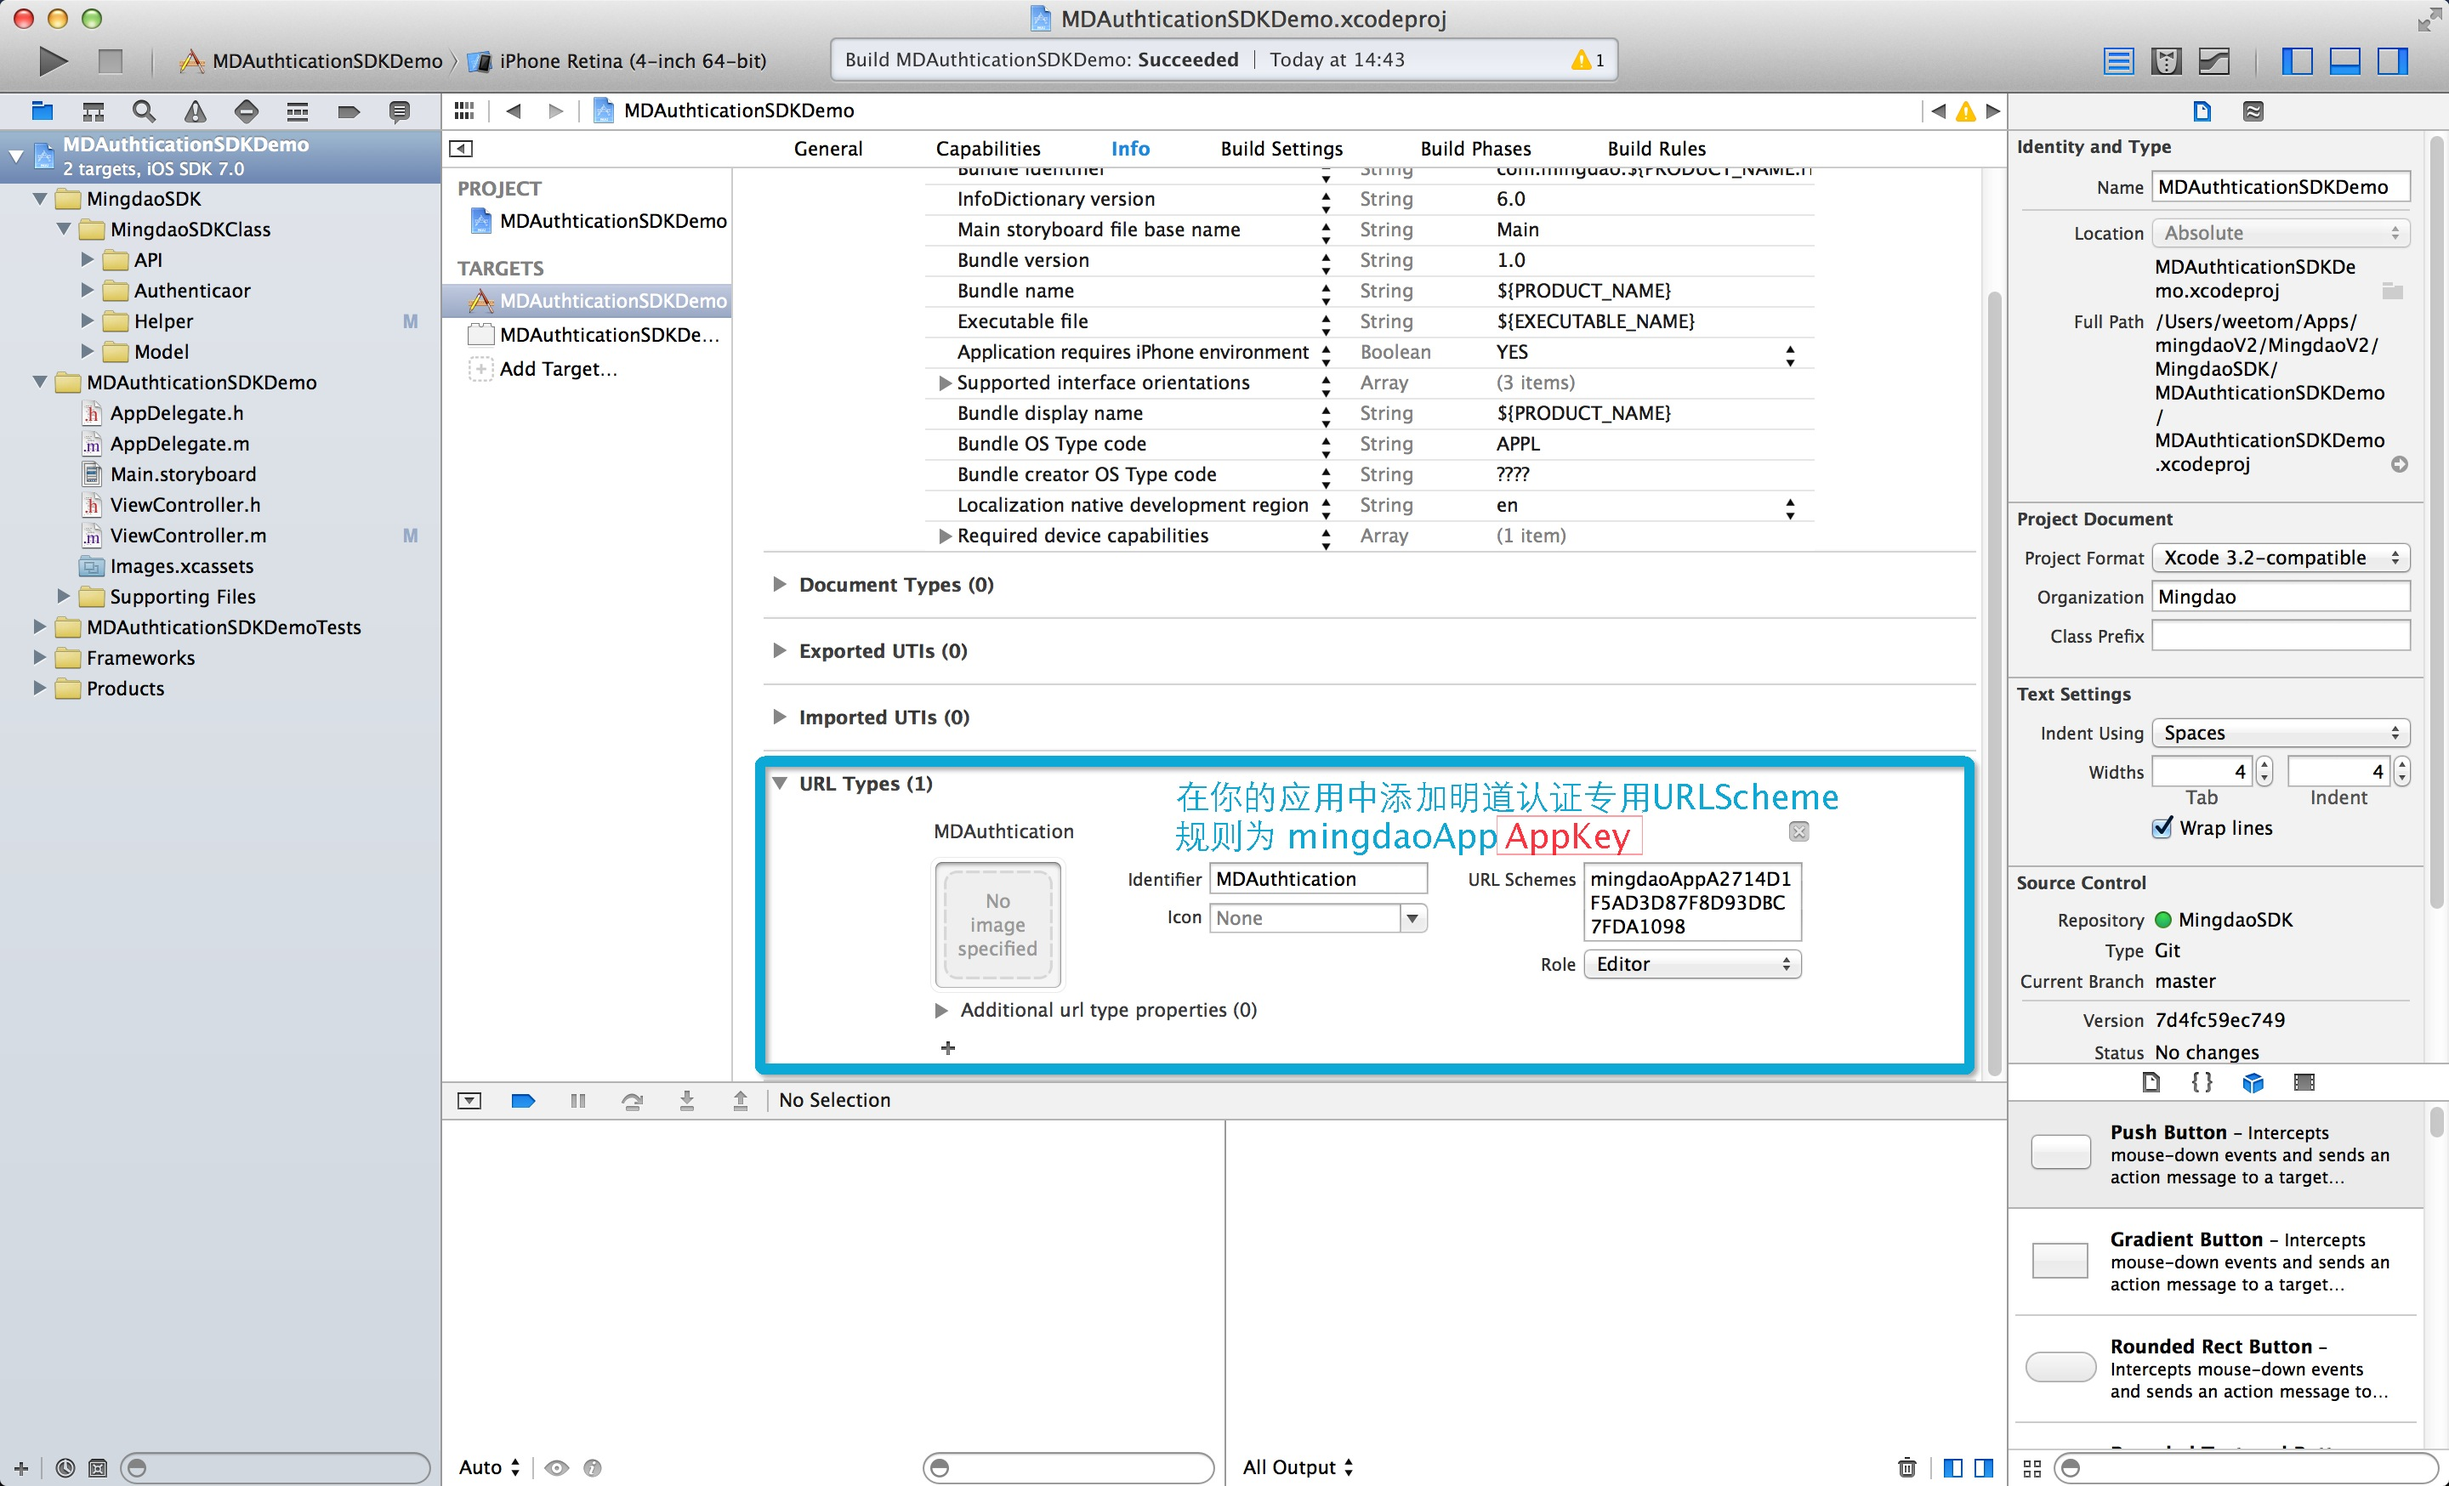
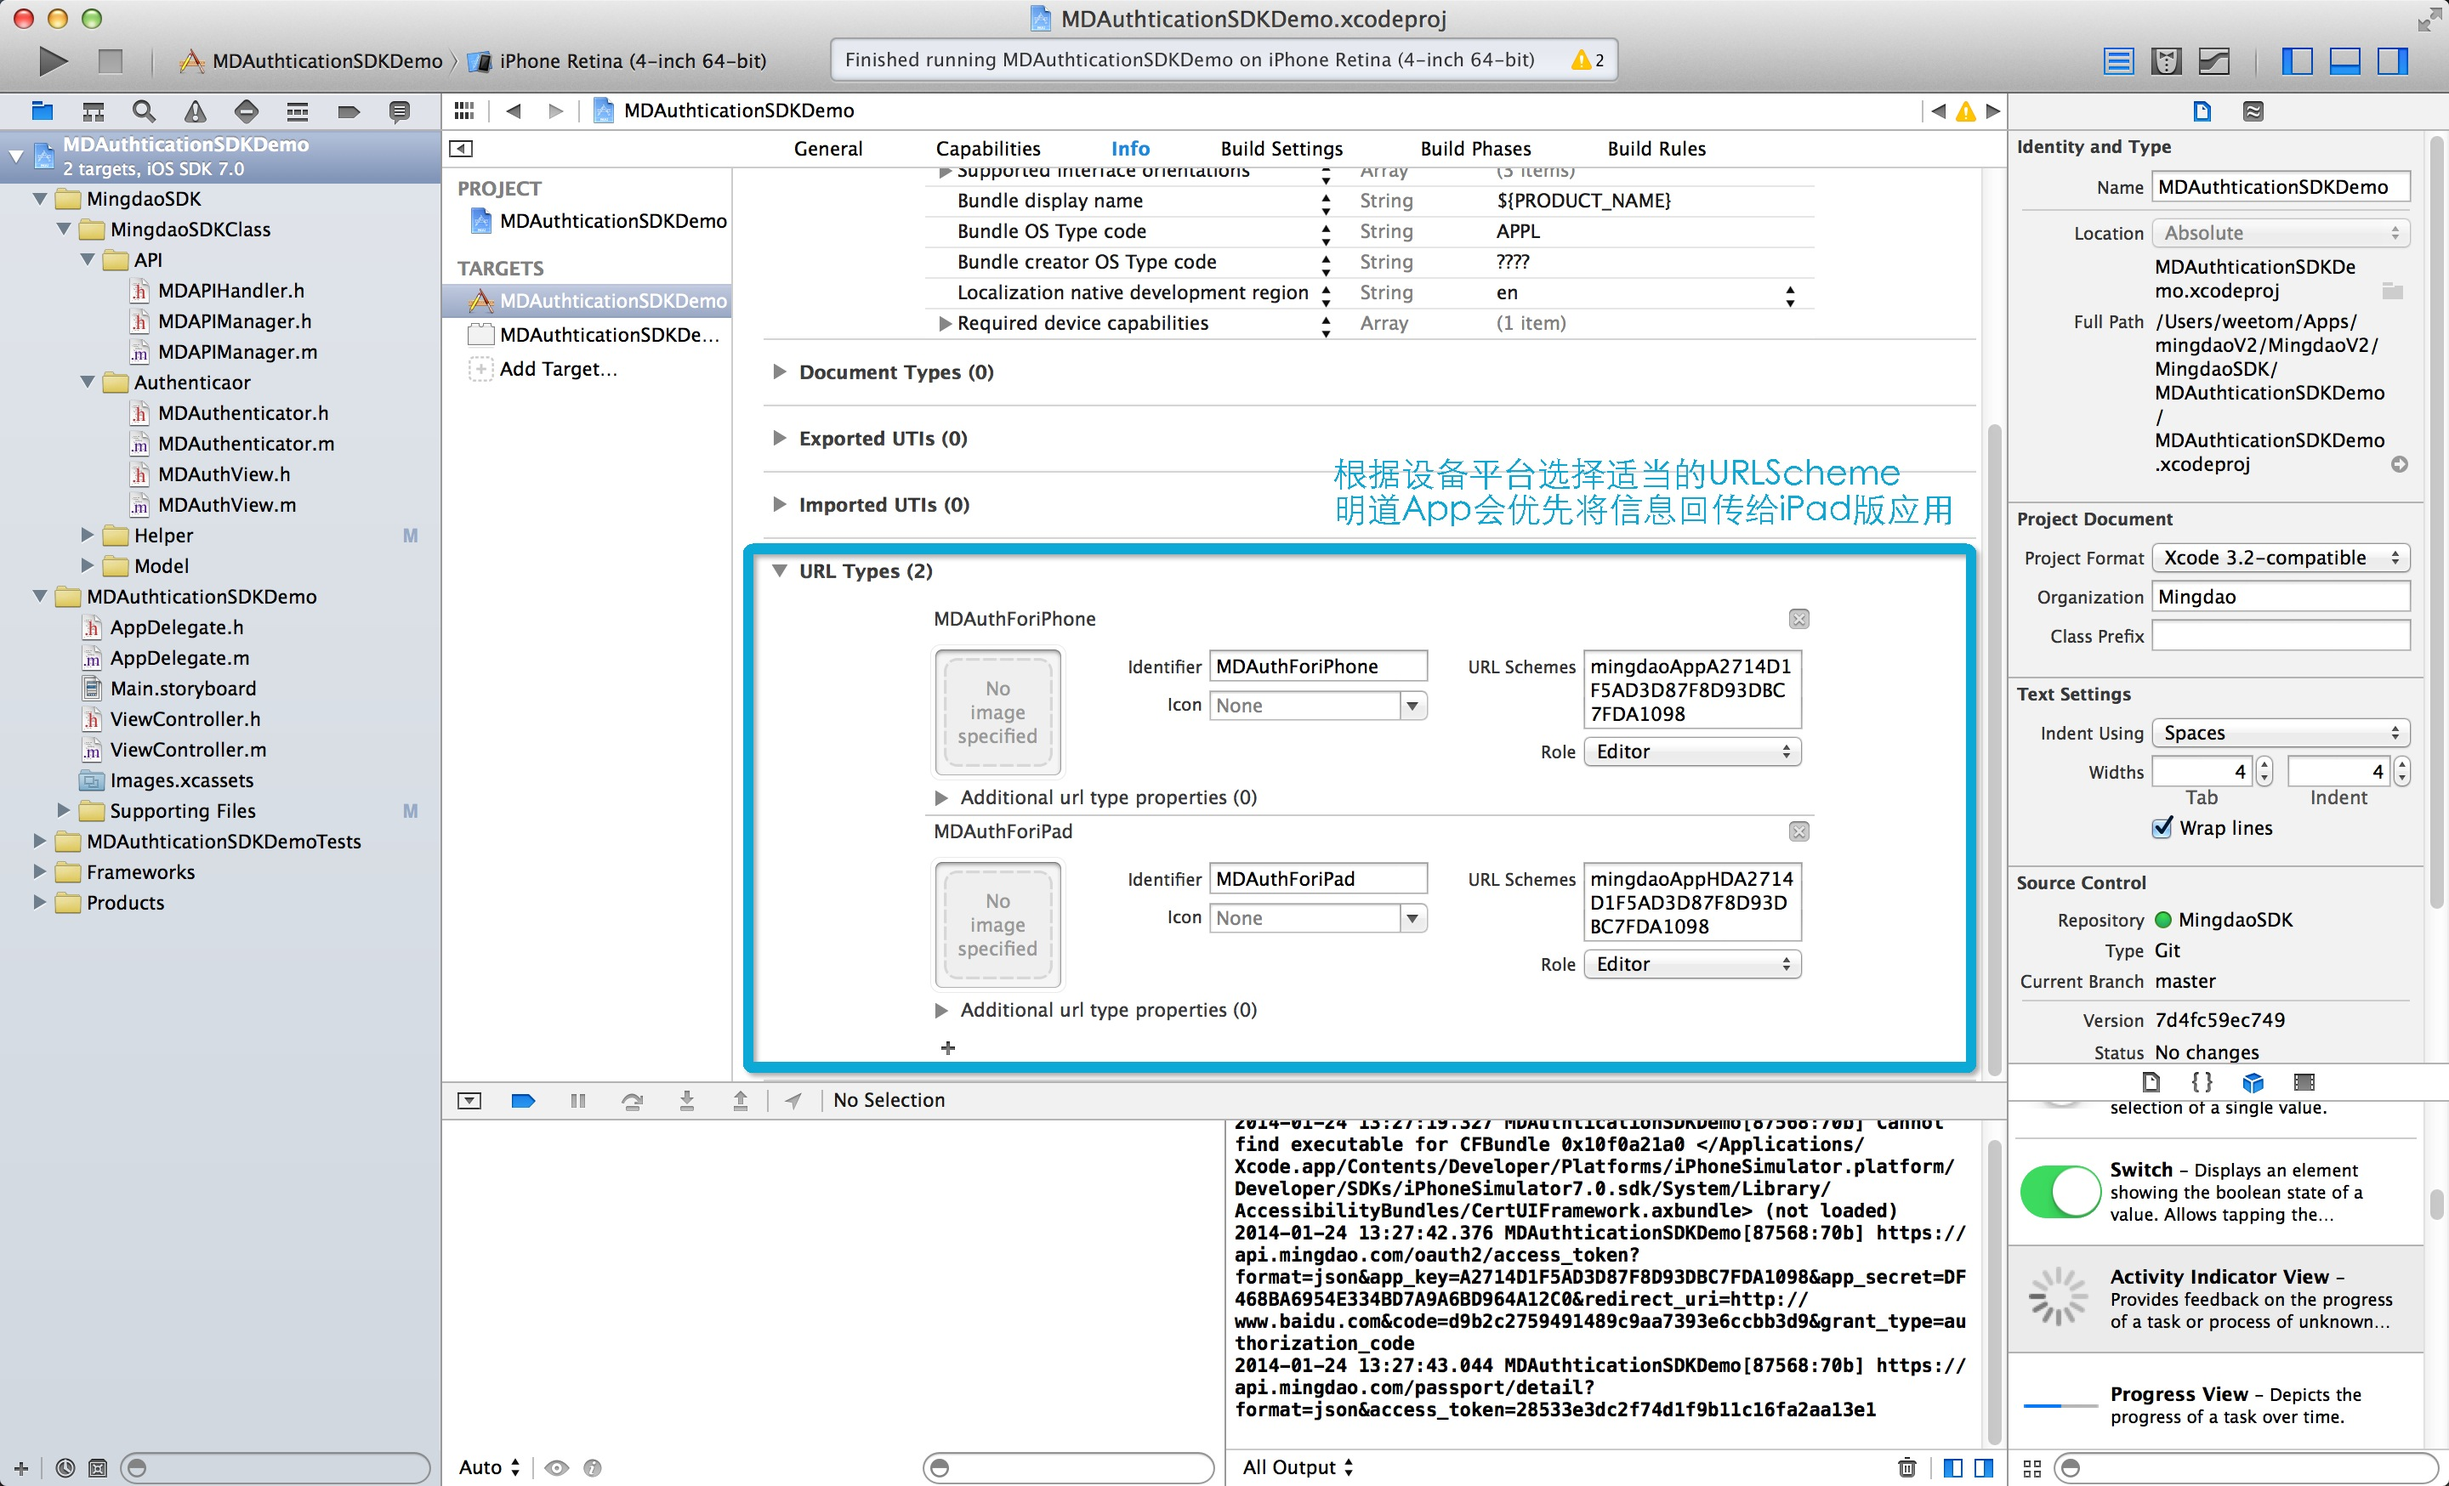
update

diff --git a/README.md b/README.md
@@ -12,7 +12,8 @@
 
 目前支持SSO的客户端版本（SDK会进行版本识别并以WebView方式向下兼容）
 
-1、iOS版明道客户端3.0及以上
+1、iPhone版明道客户端3.0及以上
+2、iPad版明道客户端暂不支持
 ##3、接入流程
 1、下载并导入明道官方SDK。
 
@@ -43,7 +44,11 @@ iOS平台：https://github.com/meihua-info/api_ios
 
 ![image](https://raw2.github.com/meihua-info/api_ios/master/%E5%BF%AB%E9%80%9F%E9%9B%86%E6%88%90%E6%8C%87%E5%8D%97/1.jpeg)
 
-（2）添加URLScheme (URLScheme为mingdaoApp'AppKey', 引号内内容创建应用时获取的AppKey, 不好扩引号)
+（2）添加URLScheme 
+    注: iPhone/iPod URLScheme为mingdaoApp'AppKey', 
+        iPad URLScheme为mingdaoAppHD'AppKey',
+        明道会优先将回调信息回传到iPad版应用,
+        引号内内容创建应用时获取的AppKey, 不包括引号
 
 ![image](https://raw2.github.com/meihua-info/api_ios/master/%E5%BF%AB%E9%80%9F%E9%9B%86%E6%88%90%E6%8C%87%E5%8D%97/3.jpeg)
 
